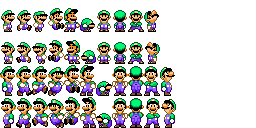
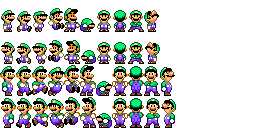
Fixed Gameobject pivot point, fixed sprites

Changed region(s): [[0.0625, 0.3125, 0.125, 0.5], [0.0625, 0.0625, 0.125, 0.25]]

diff --git a/SuperMarioWorld/SuperMarioWorld/SuperMarioWorld/Sprite.cs b/SuperMarioWorld/SuperMarioWorld/SuperMarioWorld/Sprite.cs
@@ -19,7 +19,7 @@ namespace SuperMarioWorld
         /// <summary>
         /// Texture which is loaded in from a file.
         /// </summary>
-        public Texture2D texture;
+        public Texture2D texture { get; set; }
 
         //X & Y size of a single sprite in sprite sheet
         public int xSize, ySize;
@@ -28,7 +28,7 @@ namespace SuperMarioWorld
         public List<Vector2> animationPositions;
         private int texCoordX, texCoordY;
         private int animIndex = 0;
-               
+
         /// <summary>
         /// default constructor
         /// </summary>
@@ -36,6 +36,8 @@ namespace SuperMarioWorld
         {
             animationPositions = new List<Vector2>();
             _animationProgress = animationSpeed;
+            xSize = 1;
+            ySize = 1;
         }
 
         /// <summary>
@@ -43,18 +45,26 @@ namespace SuperMarioWorld
         /// </summary>
         public void UpdateAnimation(GameTime gameTime)
         {
-            _animationProgress += (float)gameTime.ElapsedGameTime.TotalMilliseconds;
-            if(_animationProgress >= animationSpeed)
+            if (animationPositions.Count != 0)
             {
-                texCoordX = (int)animationPositions[animIndex].X * xSize;
-                texCoordY = (int)animationPositions[animIndex].Y * ySize;
+                _animationProgress += (float)gameTime.ElapsedGameTime.TotalMilliseconds;
+                if (_animationProgress >= animationSpeed)
+                {
+                    animIndex++;
 
-                animIndex++;
+                    if (animIndex == animationPositions.Count)
+                        animIndex = 0;
 
-                if (animIndex == animationPositions.Count)
-                    animIndex = 0;
+                    _animationProgress = 0;
 
-                _animationProgress = 0;
+                    texCoordX = (int)animationPositions[animIndex].X * xSize;
+                    texCoordY = (int)animationPositions[animIndex].Y * ySize;
+                }
+            }
+            else
+            {
+                xSize = texture.Width;
+                ySize = texture.Height;
             }
         }
 
@@ -65,7 +75,7 @@ namespace SuperMarioWorld
         /// /// <param name="position">The world position of the sprite</param>
         public void Draw(SpriteBatch batch, Vector2 position)
         {
-            batch.Draw(texture, new Rectangle((int)position.X, (int)position.Y, xSize, ySize), new Rectangle(texCoordX, texCoordY, xSize, ySize), Color.White);
+            batch.Draw(texture, new Rectangle((int)position.X -(xSize / 2), (int)position.Y - ySize, xSize, ySize), new Rectangle(texCoordX, texCoordY, xSize, ySize), Color.White);
         }
     }
 }

diff --git a/SuperMarioWorld/SuperMarioWorld/SuperMarioWorld/GameObject.cs b/SuperMarioWorld/SuperMarioWorld/SuperMarioWorld/GameObject.cs
@@ -27,38 +27,19 @@ namespace SuperMarioWorld
 
             //TEMP
             sprite = new Sprite();
-            sprite.sourceName = "Mario";
             sprite.xSize = 16;
             sprite.ySize = 32;
             sprite.animationSpeed = 150.0f;
             sprite.animationPositions.Add(new Vector2(0, 0));
             sprite.animationPositions.Add(new Vector2(1, 0));
-            sprite.animationPositions.Add(new Vector2(0, 0));
-            sprite.animationPositions.Add(new Vector2(1, 0));
-            sprite.animationPositions.Add(new Vector2(0, 0));
-            sprite.animationPositions.Add(new Vector2(1, 0));
-            sprite.animationPositions.Add(new Vector2(0, 1));
-            sprite.animationPositions.Add(new Vector2(1, 1));
-            sprite.animationPositions.Add(new Vector2(0, 1));
-            sprite.animationPositions.Add(new Vector2(1, 1));
-            sprite.animationPositions.Add(new Vector2(0, 1));
-            sprite.animationPositions.Add(new Vector2(1, 1));
-            sprite.animationPositions.Add(new Vector2(2, 2));
-            sprite.animationPositions.Add(new Vector2(1, 2));
-            sprite.animationPositions.Add(new Vector2(0, 2));
-            sprite.animationPositions.Add(new Vector2(2, 2));
-            sprite.animationPositions.Add(new Vector2(1, 2));
-            sprite.animationPositions.Add(new Vector2(0, 2));
-            sprite.animationPositions.Add(new Vector2(2, 3));
-            sprite.animationPositions.Add(new Vector2(1, 3));
-            sprite.animationPositions.Add(new Vector2(0, 3));
-            sprite.animationPositions.Add(new Vector2(2, 3));
-            sprite.animationPositions.Add(new Vector2(1, 3));
-            sprite.animationPositions.Add(new Vector2(0, 3));
             //TEMP
         }
 
-        public void Update(GameTime gameTime)
+        /// <summary>
+        /// Called every frame
+        /// </summary>
+        /// <param name="gameTime">Gametime that has passed since prev. frame</param>
+        public virtual void Update(GameTime gameTime)
         {
             sprite.UpdateAnimation(gameTime);
         }

diff --git a/SuperMarioWorld/SuperMarioWorld/SuperMarioWorld/Level.cs b/SuperMarioWorld/SuperMarioWorld/SuperMarioWorld/Level.cs
@@ -27,16 +27,9 @@ namespace SuperMarioWorld
         public Level(SpriteBatch batch)
         {
             //TEMP, Add a object to the level
-            GameObject mario = new GameObject(new Vector2(-20.0f,0.0f));
+            GameObject mario = new GameObject(new Vector2(0.0f,0.0f));
             mario.sprite.sourceName = "Mario";
             objects.Add(mario);
-            GameObject luigi = new GameObject(new Vector2(0.0f, 0.0f));
-            luigi.sprite.sourceName = "Luigi";
-            objects.Add(luigi);
-            GameObject wario = new GameObject(new Vector2(16.0f, 0.0f));
-            objects.Add(wario);
-            wario.sprite.xSize = 24;
-            wario.sprite.sourceName = "Wario";
             
             //Create camera object
             cam = new Camera2D();
